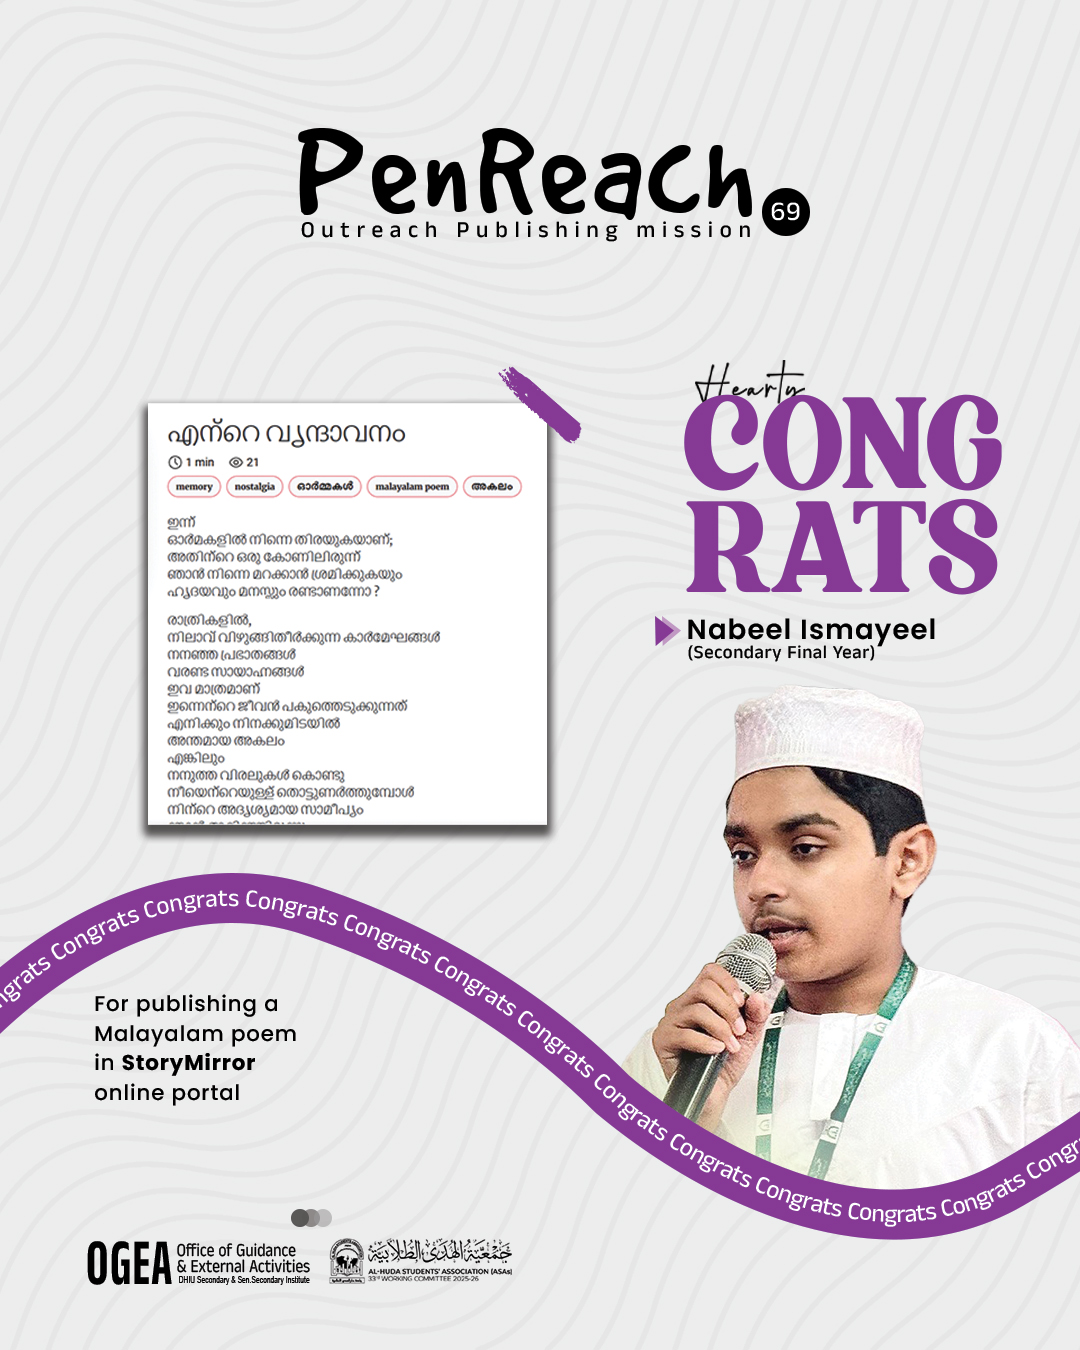
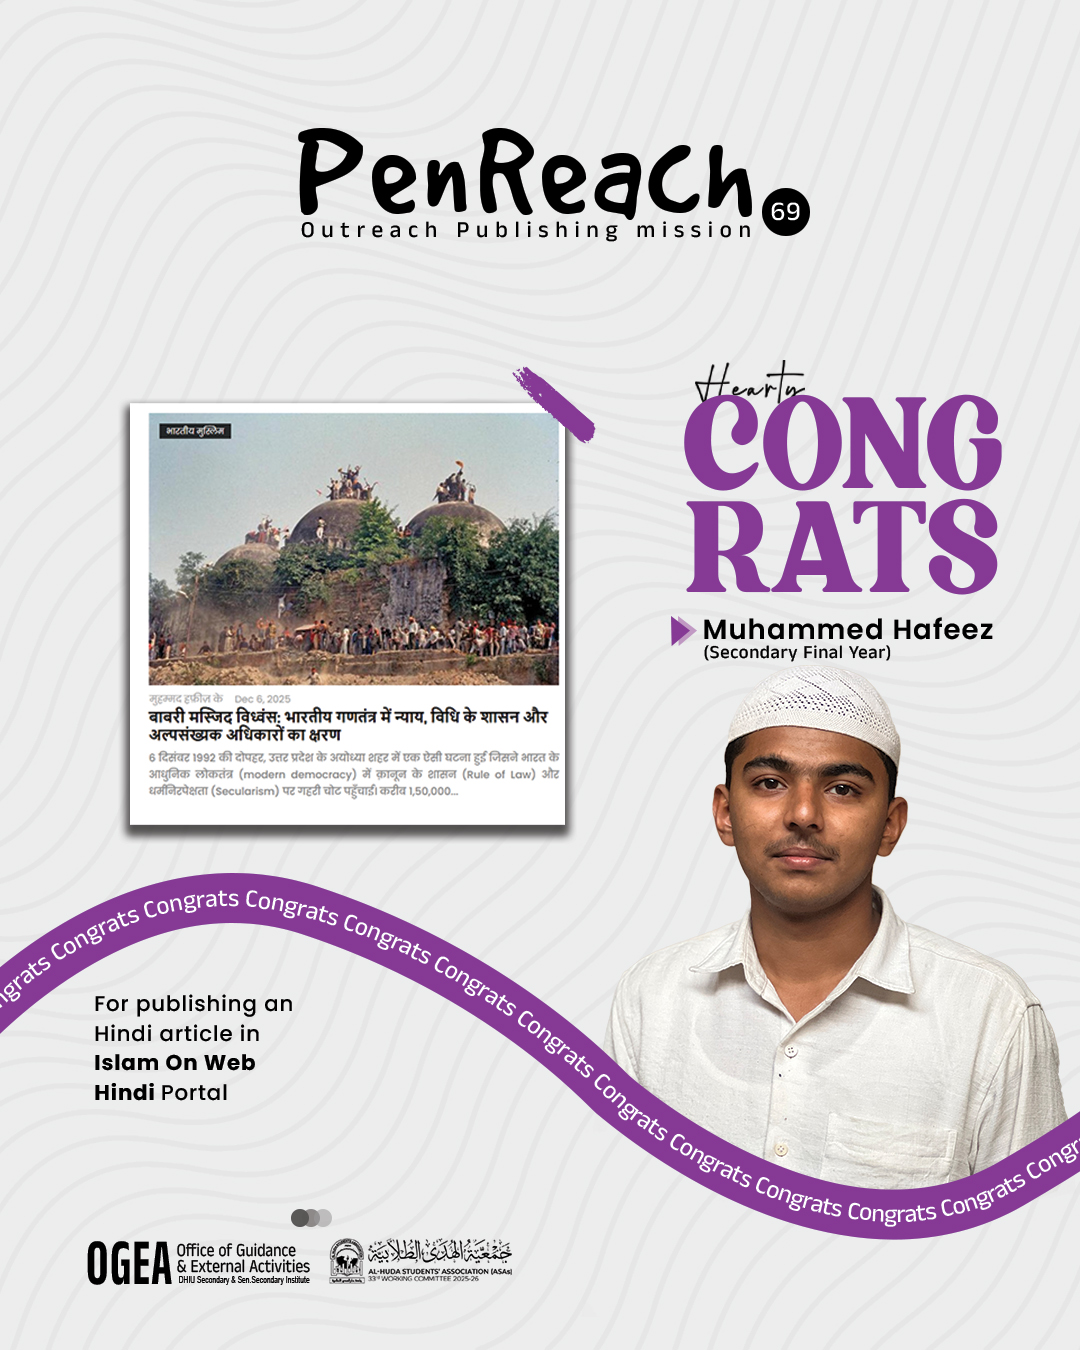
Refactor code structure for improved readability and maintainability

Changed region(s): [[0.0917, 0.2489, 0.55, 0.6222], [0.55, 0.4356, 1.0, 0.9022], [0.0917, 0.7467, 0.275, 0.84]]

diff --git a/src/lib/posters.js b/src/lib/posters.js
@@ -112,6 +112,9 @@ import paperpath16 from '../assets/posters/paperpath/16.jpg'
 import paperpath17 from '../assets/posters/paperpath/17.jpg'
 import paperpath18 from '../assets/posters/paperpath/18.jpg'
 import paperpath19 from '../assets/posters/paperpath/19.jpg'
+import paperpath20 from '../assets/posters/paperpath/20.jpg'
+import paperpath21 from '../assets/posters/paperpath/21.jpg'
+
 
 // TalentTide imports (12 posters)
 import talenttide1 from '../assets/posters/talenttide/1.jpg'
@@ -270,5 +273,6 @@ export const posters = [
   { id: 130, image: penreach90 , category: 'penreach' },
   { id: 131, image: penreach91 , category: 'penreach' },
   { id: 132, image: penreach92 , category: 'penreach' },
-  
+  { id: 133, image: paperpath20 , category: 'paperpath' },
+  { id: 134, image: paperpath21 , category: 'paperpath' },
 ];
